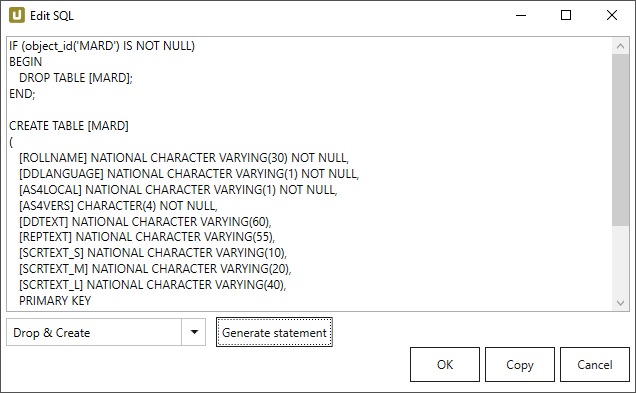
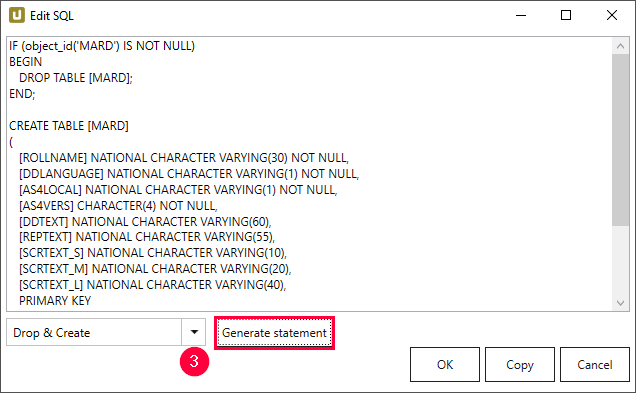
custom sql xu de en

Changed region(s): [[0.2689, 0.7939, 0.5377, 0.9771]]

diff --git a/content/_de/xtract-universal/xu-destinationen/microsoft-sql-server/sql-server-custom-sql.md b/content/_de/xtract-universal/xu-destinationen/microsoft-sql-server/sql-server-custom-sql.md
@@ -9,34 +9,38 @@ permalink: /:collection/:path
 weight: 6
 lang: de_DE
 old_url: /Xtract-Universal-DE/default.aspx?pageid=sql-server-voraussetzungen
+progressstate: 5
 ---
+### Custom SQL Statement - Benutzerdefinierte SQL-Anweisung
 
-Sie haben die Möglichkeit abseits vom Standard eigene SQL-Statement für die drei unterschiedlichen DB Prozessschritte zu verwenden und / oder diese an Ihre Bedürfnissen anzupassen.
-
-Die notwendigen Anpassungen sind für die Abschnitte *Preparation, Row & Processing* sowie *Finalization* in den Destination Settings vorzunehmen. 
-Selektieren Sie dafür eine bestehende Extraction in Xtract Universal und klicken auf die Schaltfläche Destination.
-
+Im Dialog [Destination settings](./sql-server-einstellungen#destination-settings-öffnen) können Sie eine benutzerdefinierte SQL-Anweisung für die drei verschiedenen Datenbank-Prozessschritte verwenden und / oder die SQL-Anweisung an Ihre Anforderungen anpassen.
 ![Destination-Settings](/img/content/destination_settings.png){:class="img-responsive"}
+1. Wählen Sie eine bestimmte Extraktion (1).
+2. Klicken Sie auf **[Destination]** (2), der Dialog "Destination Settings" wird geöffnet.
+3. Wählen Sie die Option *Custom SQL* aus der Dropdown-Liste (3) in einem der folgenden Abschnitte:
+- Preparation 
+- Row Processing
+- Finalization
+4. Klicken Sie auf **[Edit SQL]** (4), der Dialog "Edit SQL" wird geöffnet.
 
-Im folgenden Beispiel wird die Tabelle *KNA1* um eine Spalte mit dem aktuellen Datum vom Typ `DATETIME` erweitert. 
-Das Befüllen dieser neuen Spalte wird dynamisch mit einer .NET basierten Funktion umgesetzt. 
+### Custom SQL Beispiel
+Im folgenden Beispiel wird die Tabelle *KNA1* um eine Spalte mit dem aktuellen Datum vom Typ *DATETIME* erweitert. <br>
+Das Befüllen der neuen Spalte wird dynamisch mit einer .NET basierten Funktion umgesetzt. 
 
-<div class="alert alert-info">
-  <i class="fas fa-info-circle"></i> <strong>Note:</strong> Die verwendbaren Datentypen im SQL-Statement sind abhängig von der SQL-Server Datenbank Version.
-</div>
+{: .box-note }
+**Hinweis:** Die verwendbaren Datentypen im SQL-Statement sind abhängig von der SQL-Server Datenbank Version.
 
+1. Wählen Sie im Dialog "Destination Settings" im Abschnitt **Preparation** die Option *Custom SQL* und klicken Sie auf **Edit SQL**.
 ![Custom-SQL_Prep](/img/content/custom_sql_preparation_statement.png){:class="img-responsive"}
-
-Beginnen Sie damit im Preparation Abschnitt über das Drop-Down Menü *Custom SQL* auszuwählen. Anschließend klicken Sie auf die Schaltfläche *Edit SQL*, um den Code zu bearbeiten.
-Wählen Sie aus dem Drop-Down Menü *Drop & Create* aus und klicken Sie auf *Generate Statement*. Fügen Sie am Ende des erzeugten Statements folgende Zeile ein und bestätigen Sie die Eingabe mit *OK*. 
-
+2. Wählen Sie im Dropdown-Menü die Option *Drop & Create* und klicken Sie auf **[Generate Statement]**. 
+3. Fügen Sie am Ende des generierten Statements die folgende Zeile hinzu: <br>
 ```sql
 [Extraction_Date] DATETIME
 ```
+4. Bestätigen Sie mit **[OK]**. <br>
 
-Im Abschnitt *Row Processing* werden die Spaltenwerte aus SAP in die vorab angelegten Spalten der SQL-Zieltabelle prozessiert. Dieses SQL-Statement wird daher auf dem Standard *Insert* als SQL-Statement belassen. Zu diesem Zeitpunkt werden keine Daten aus dem SAP-Quellsystem, sondern `NULL` Werte in die neu angelegte Spalte *Extraction_Date* geschrieben.
-
-Im letzten Abschnitt *Finalization* werden die `NULL` Werte mit folgenden SQL-Statement des aktuellen Datums der Extraktion befüllt und durch den T-SQL Befehl `UPDATE` in die SQL-Zieltabelle geschrieben: 
+Im Abschnitt **Row Processing** werden die Spaltenwerte aus SAP in die zuvor angelegten Spalten der SQL-Zieltabelle prozessiert. Dieses SQL-Statement wird daher auf dem Standard *Insert* als SQL-Statement belassen. Zu diesem Zeitpunkt werden keine Daten aus dem SAP-Quellsystem, sondern `NULL` Werte in die neu angelegte Spalte *Extraction_Date* geschrieben.
+Im Abschnitt **Finalization** werden die `NULL` Werte mit folgenden SQL-Statement des aktuellen Datums der Extraktion befüllt und durch den T-SQL Befehl `UPDATE` in die SQL-Zieltabelle geschrieben: 
 
 ```sql
 UPDATE [dbo].[KNA1] 
@@ -44,19 +48,20 @@ SET [Extraction_Date] = '#{DateTime.Now}#'
 WHERE [Extraction_Date] IS NULL; 
 ```
 
-Bestätigen Sie die Eingabe mit *OK*. 
-
 ![Custom-SQL_Final](/img/content/custom_sql_finalization_statement.png){:class="img-responsive"}
 
-SQL-Server Ansicht der Tabelle *KNA1* mit der erweiterten Spalte *Extraction_Date*.
+#### Ergebnis überprüfen
+
+Überprüfen Sie die Existenz der erweiterten Spalte *Extraction_Date* in der SQL Server-Ansicht der Tabelle *KNA1*.
 
 ![Custom_SQL_SQL_Server_Ausgabe](/img/content/sql_server_ansicht_extraction_date_spalte.png){:class="img-responsive"}
 
 #### Anlage SQL Tabelle ExtractionStatistics
 
-Diese Tabelle ermöglicht eine Gesamtübersicht und Status der ausgeführten Xtract Universal Extraktionen.
+Die Tabelle "ExtractionStatistics" ermöglicht eine Gesamtübersicht und Status der ausgeführten Xtract Universal Extraktionen.
 
-Erstellen Sie dafür eine SQL Tabelle nach folgenden Beispiel:
+Um die Tabelle "ExtractionStatistics" zu erstellen, erstellen Sie eine SQL-Tabelle gemäß dem folgenden Beispiel:
+
 
 ```sql
 CREATE TABLE [dbo].[ExtractionStatistics](
@@ -86,3 +91,6 @@ VALUES
      '#{Extraction.RunState}#'
 );
 ```
+***********
+#### Weiterführende Links
+- [Post-Processing Column Name Style](https://kb.theobald-software.com/xtract-universal/adjust-column-name-style)

diff --git a/content/_en/xtract-universal/xu-destinations/microsoft-sql-server/sql-server-custom-sql.md b/content/_en/xtract-universal/xu-destinations/microsoft-sql-server/sql-server-custom-sql.md
@@ -13,7 +13,7 @@ progressstate: 5
 ---
 ### Custom SQL Statement
 
-In the dialogue [destination settings](./sql-server-settings#opening-the-destination-settings), you can use a custom SQL statement for the three different database process steps and / or to adapt the SQL statement to your requirements.
+In the dialogue [Destination settings](./sql-server-settings#opening-the-destination-settings), you can use a custom SQL statement for the three different database process steps and / or to adapt the SQL statement to your requirements.
 ![Destination-Settings](/img/content/destination_settings.png){:class="img-responsive"}
 1. Select a particular extraction (1).
 2. Click **[Destination]** (2), the dialogue "Destination Settings" opens.
@@ -30,15 +30,15 @@ The new column is filled dynamically using a .NET-based function.
 {: .box-note }
 **Note:** The data types that can be used in the SQL statement depend on the SQL Server database version.
 
-![Custom-SQL_Prep](/img/content/custom_sql_preparation_statement.png){:class="img-responsive"}
-
 1. In the dialogue "Destination Settings", within the section **Preparation**, select *Custom SQL* and click **[Edit SQL]**.
+![Custom-SQL_Prep](/img/content/custom_sql_preparation_statement.png){:class="img-responsive"}
 2. In the drop-down menu, select the option *Drop & Create* and click **[Generate Statement]**. 
 3. At the end of the generated statement, add the following line: <br>
 ```sql
 [Extraction_Date] DATETIME
-``` 
-4. Confirm with **[OK]**.
+```
+4. Confirm with **[OK]**. <br>
+
 In the section **Row Processing**, the column values from SAP are processed in the previously created columns of the SQL target table. This SQL statement is therefore left on the standard *Insert* as an SQL statement. At this point, no data is written from the SAP source system, but `NULL` values are written to the newly created *Extraction_Date* column.
 In the section section **Finalization**, the `NULL` values are filled with the following SQL statement of the current date of the extraction and written to the SQL target table by the T-SQL command `UPDATE`. <br>
 
@@ -47,8 +47,6 @@ UPDATE [dbo].[KNA1]
 SET [Extraction_Date] = '#{DateTime.Now}#' 
 WHERE [Extraction_Date] IS NULL;
 ```
-
-![Custom-SQL_Final](/img/content/custom_sql_finalization_statement.png){:class="img-responsive"}
 
 #### Checking the Result
 

diff --git a/_includes/_content/de/xu-specific/xu-destinations/general/sql-commands.md b/_includes/_content/de/xu-specific/xu-destinations/general/sql-commands.md
@@ -34,11 +34,9 @@ Definiert die Aktion auf der Zieldatenbank, nachdem die Daten in die Zieltabelle
 - *None*: keine Aktion (Default).
 - *Custom SQL*: Hier können Sie eigenes Skript definieren. Siehe den unteren Abschnitt Custom SQL. 
 
-
 #### Über Merging
 Die Zusammenführung gewährleistet eine Deltaverarbeitung: neue Datensätze werden in die Datenbank eingefügt und/oder bestehende Datensätze werden aktualisiert. 
 Mehr Details im Abschnitt [Daten zusammenführen (mergen)](./daten-mergen).
-
 
 ### Custom SQL 
 
@@ -46,12 +44,13 @@ Die Option Custom SQL ermöglicht die Erstellung benutzerdefinierter SQL- oder S
 als Vorlagen verwendet werden:
 
 1. Wählen Sie im Unterabschnitt z.B. **Preparation** die Option **Custom SQL** (1) aus der Dropdown-Liste.
-2. Klicken Sie auf **[Edit SQL]**. Das Fenster "Edit SQL" wird geöffnet.
+2. Klicken Sie auf **[Edit SQL]**. Der Dialog "Edit SQL" wird geöffnet.
 ![Formula-ExistsTable](/img/content/Formula-ExistsTable.png){:class="img-responsive"}
 3. Navigieren Sie zum Dropdown-Menü und wählen Sie einen vorhandenen Befehl (3). 
 4. Klicken Sie auf **[Generate Statement]**. Eine neue Anweisung wird generiert.
-5. Kopieren Sie die Erklärung zur weiteren Verwendung und klicken Sie zur Bestätigung auf **[OK]**.
 ![Formula-ExistsTable](/img/content/Formula-ExistsTable-02.png){:class="img-responsive"}
+5. Klicken Sie auf **[Copy]** um die Anweisung in den Zwischenspeicher zu kopieren.
+6. Klicken Sie zur Bestätigung auf **[OK]**.
 
 Einzelheiten zu vordefinierten Ausdrücken finden Sie im [Microsoft SQL Server Beispiel](https://help.theobald-software.com/de/xtract-universal/xu-destinationen/microsoft-sql-server/sql-server-custom-sql).
 

diff --git a/_includes/_content/en/xu-specific/xu-destinations/general/sql-commands.md b/_includes/_content/en/xu-specific/xu-destinations/general/sql-commands.md
@@ -34,11 +34,9 @@ Defines the action on the target database after the data has been successfully i
 - *None*: no action (default).
 - *Custom SQL*: Here you can define your own script. See the Custom SQL section below.
 
-
 #### About Merging
 Merging ensures delta processing: new records are inserted into the database and / or existing records are updated. 
 See section [merging data](./merging-data).
-
 
 ### Custom SQL
 
@@ -46,12 +44,13 @@ Custom SQL option allows creating user-defined SQL or script expressions. Existi
 be used as templates:
 
 1. Within subsection e.g., **Preparation** select the **Custom SQL** (1) option from the drop-down list.
-2. Click **[Edit SQL]**. The window "Edit SQL" opens.
+2. Click **[Edit SQL]**. The dialogue "Edit SQL" opens.
 ![Formula-ExistsTable](/img/content/Formula-ExistsTable.png){:class="img-responsive"}
 3. Navigate to the drop-down menu and select an existing command (3). 
 4. Click **[Generate Statement]**. A new statement is generated.
-5. Copy the statement for further use and click **[OK]** to confirm.
 ![Formula-ExistsTable](/img/content/Formula-ExistsTable-02.png){:class="img-responsive"}
+5. Click **[Copy]** to copy the statement to the clipboard.
+6. Click **[OK]** to confirm.
 
 Check out the [Microsoft SQL Server example](../microsoft-sql-server/sql-server-custom-sql) for details on predefined expressions.
 
